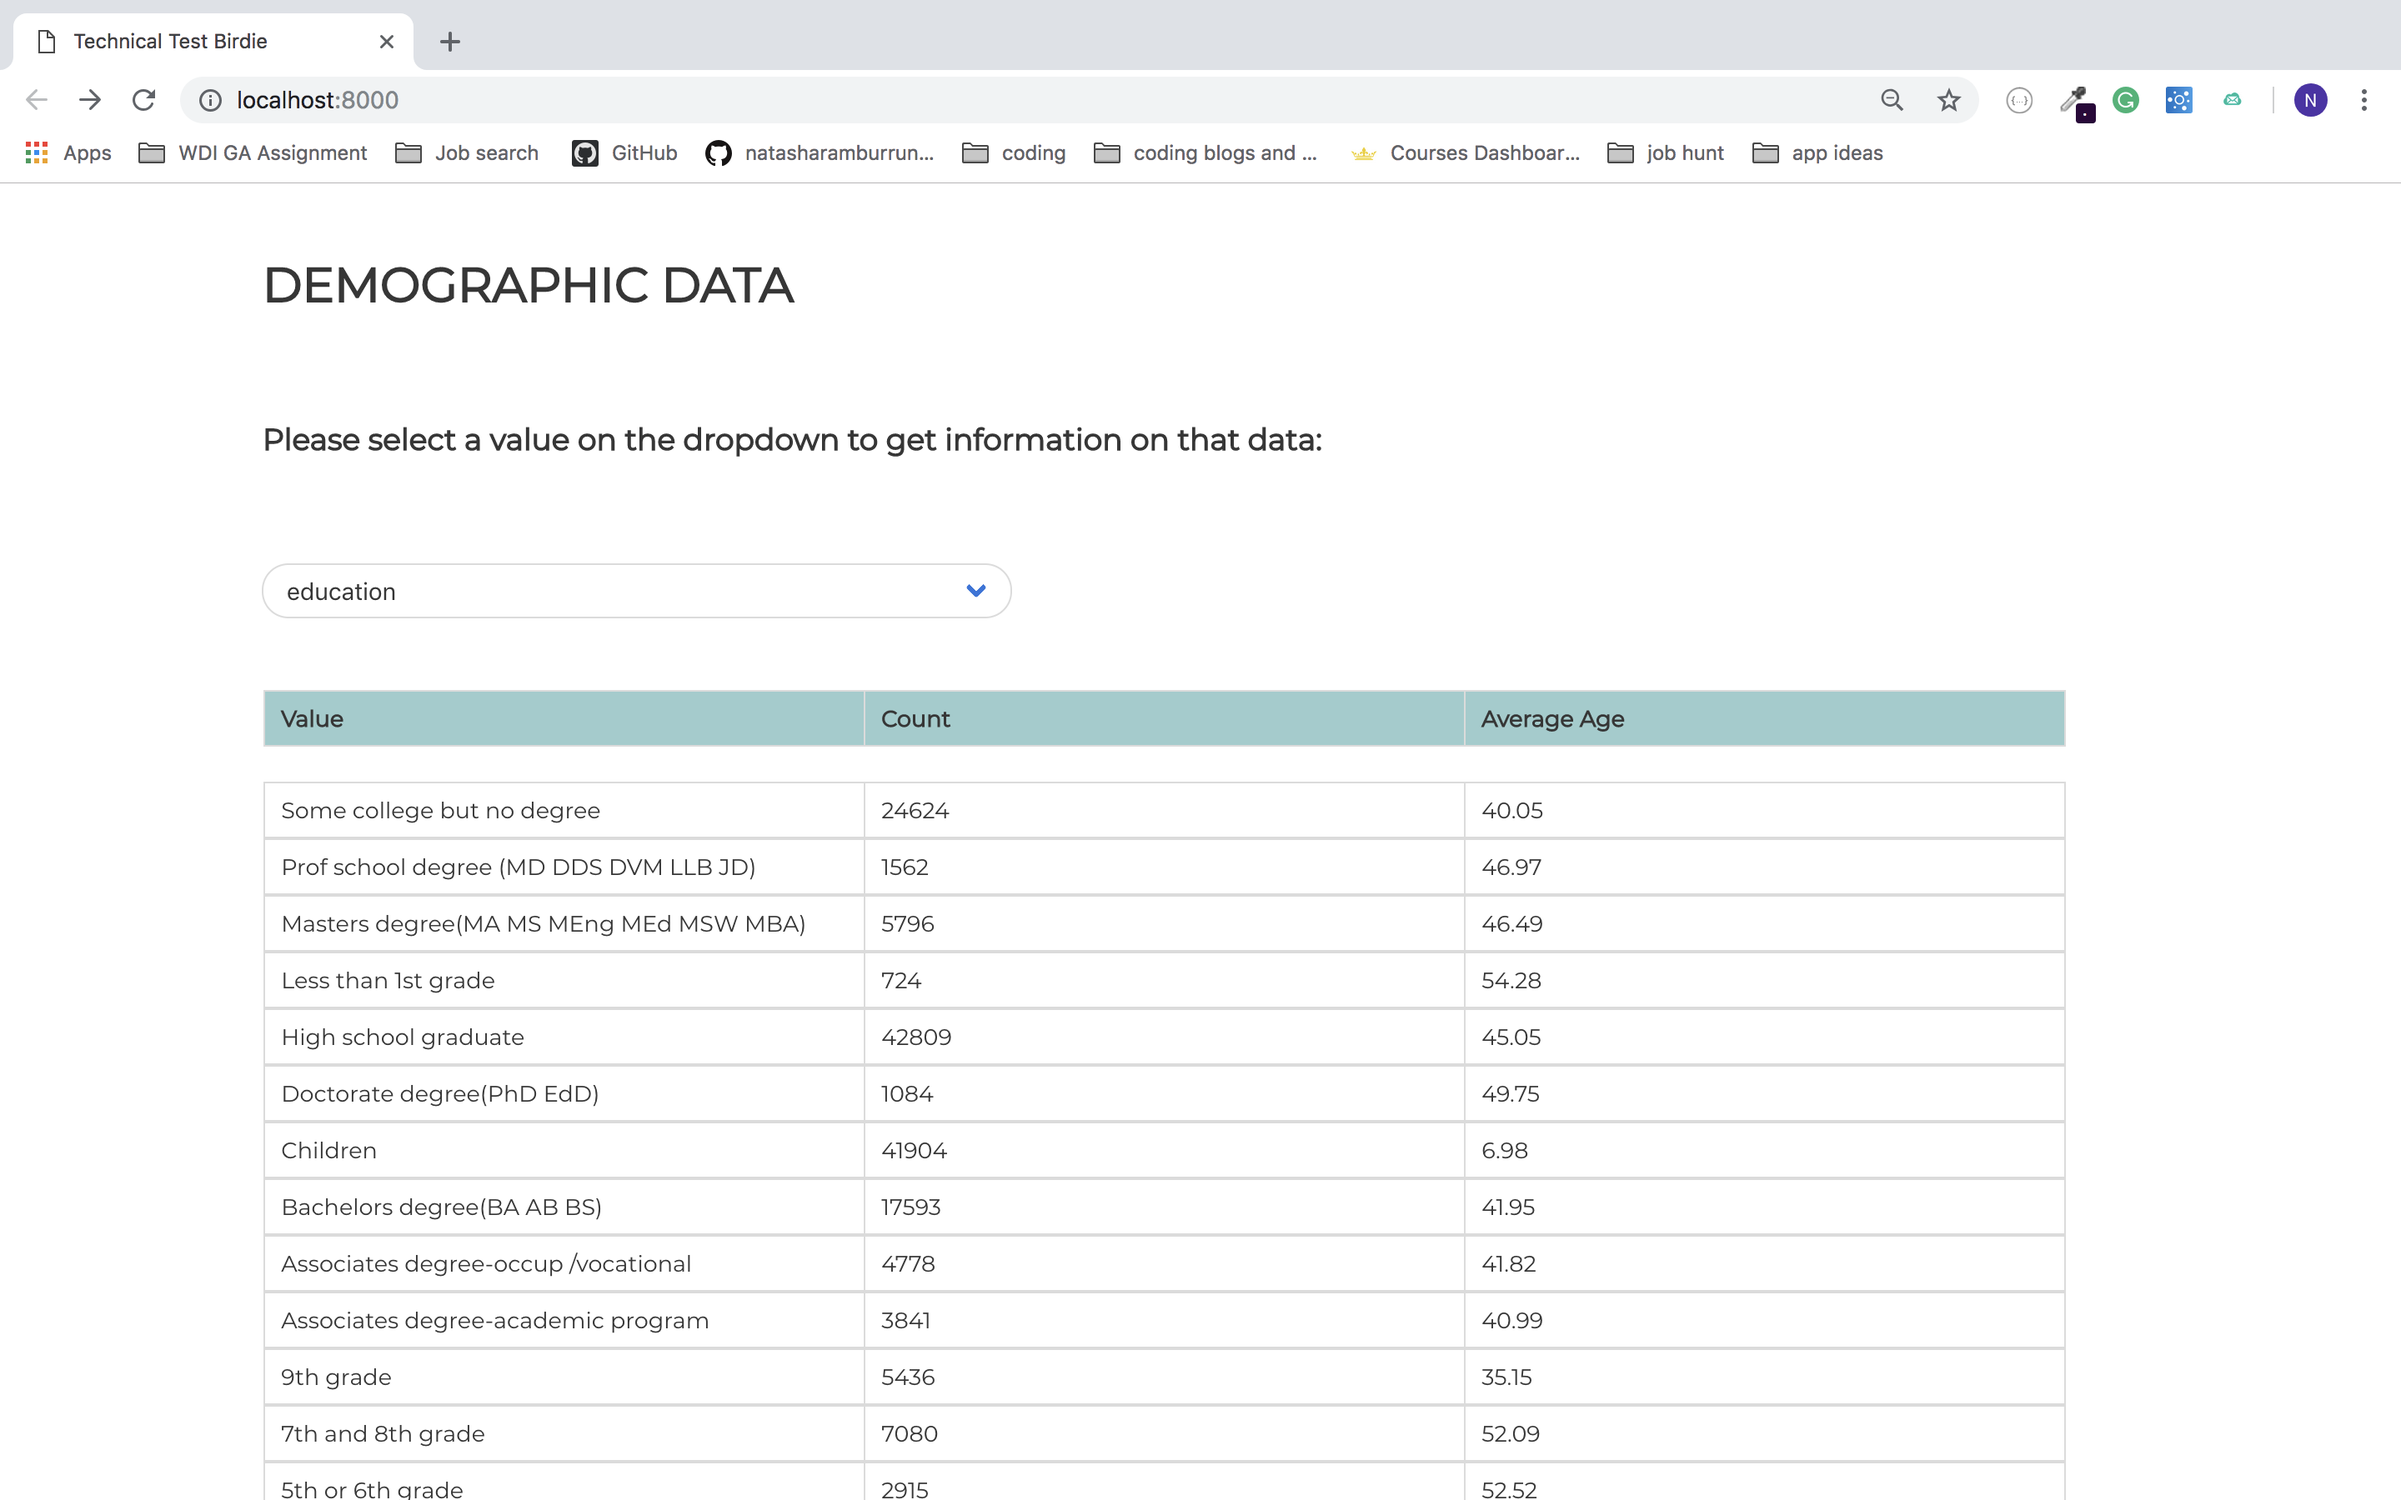
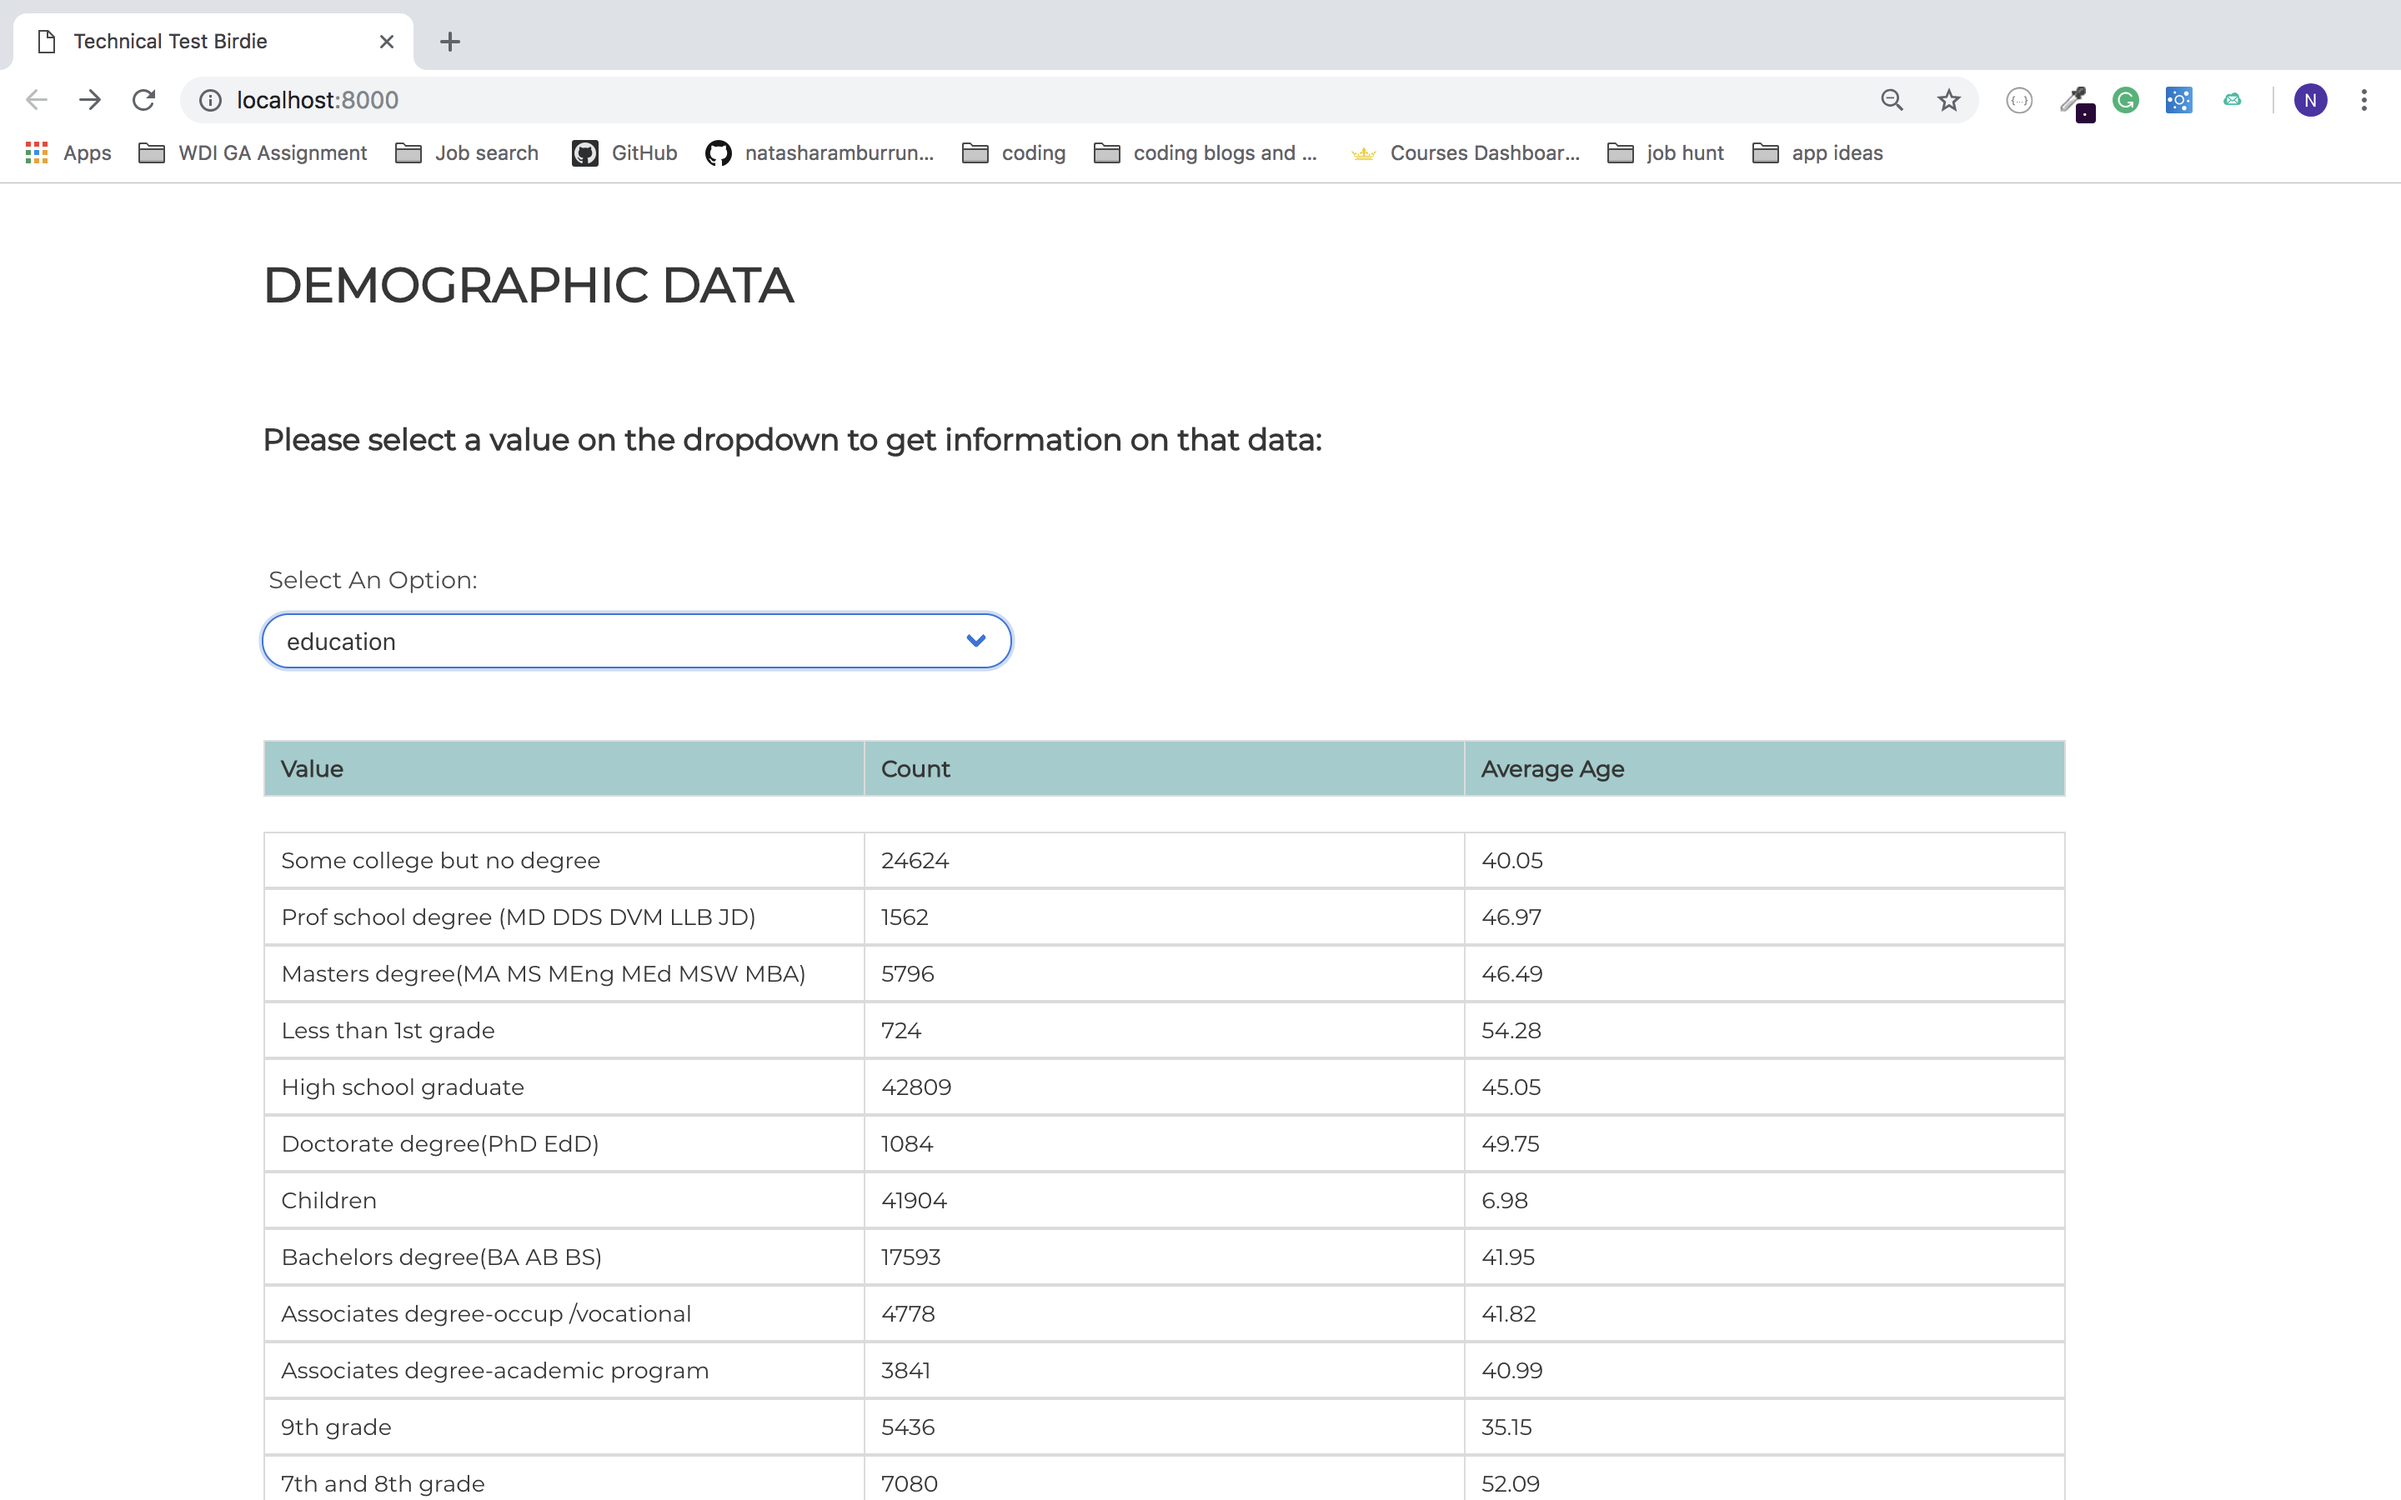
retouched the options selector

Changed region(s): [[0.0938, 0.3733, 0.875, 1.0]]

diff --git a/src/components/QueryDropdown.js b/src/components/QueryDropdown.js
@@ -15,6 +15,7 @@ export default class QueryDropdown extends React.Component {
 
     return (
       <section className="section">
+        <h1 className="option-title">Select An Option:</h1>
         <div className="control">
           <div className="select is-rounded">
             <select onChange={this.onChange}>

diff --git a/src/scss/style.scss b/src/scss/style.scss
@@ -33,8 +33,14 @@ th {
 
 .select {
   margin-left: 150px;
+  padding-top: 0px;
 }
 
 .sweet-loading {
   margin-left: 200px;
+}
+
+.option-title {
+  margin-left: 155px;
+  padding-bottom: 10px;
 }

diff --git a/src/app.js b/src/app.js
@@ -43,7 +43,7 @@ class App extends React.Component {
 
 
     const options = [
-      'Select an option:',
+      '',
       'age',
       'class of worker',
       'occupation code',

diff --git a/README.md b/README.md
@@ -28,8 +28,8 @@ HTML | SCSS | JavaScript (ES6) | React | Nodejs | mySQL | Webpack | Bulma | Sass
 
 #### Challenges:
 
-- I experience a couple of Challenges, firstly it take a very long time for the data to load when change options in the drop down box, I decided to include a loading page to avoid the user to continue to select items while loading.
-- I did not complete the indication of number of non-displayed values ie lines.
+- I experience a couple of challenges, firstly it takes a long time for the data to load when change options in the drop down box, I decided to include a loading function to let the user know that the page is loading. It would have been good to disable the dropdown when loading is happening, so the user can not select a new option.
+- I did not complete the indication of number of non-displayed values ie lines, although I attempted this as a new SQL query.
 
 
 <strong>Single Page Application</strong>:
